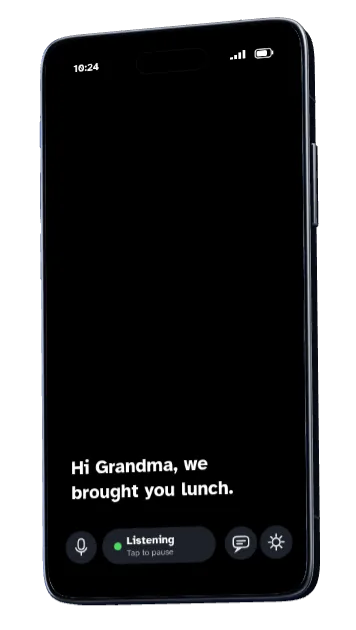
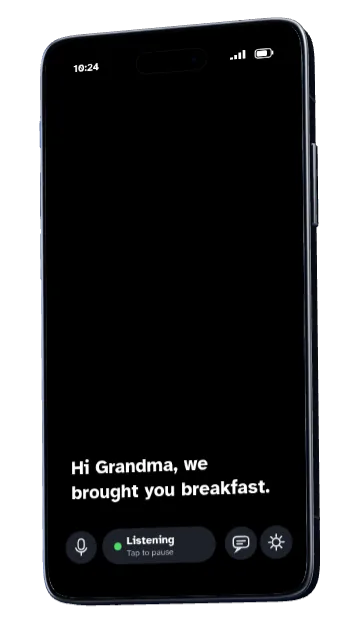
Home and privacy pages: name Apple's servers, backups and the home computer's needs
The home page now says sound can also go to Apple's servers (off until
turned on), that saved conversations are in an iPhone's backup when backup
is on, and that the home computer must run Windows or Linux with an NVIDIA
graphics card (with a link to the Linux steps). The privacy page scopes
"goes online only for" to the phone's own model, in both languages, and the
Hebrew short version no longer reads as if "if you turned it on" applied
to all three routes. Terms say "any other emergency".

The animated phone brings breakfast in both languages (English said lunch).
Its Hebrew labels follow the app's current wording again (Listening, Flip,
Speak, Play and the welcome lines, which the app writes in the plural).
Hebrew home page: the reply and Flip sentences say clearly what is meant,
and the model size is written in MB, as the app writes it. Phone posters
re-rendered.

Changed region(s): [[0.5253, 0.754, 0.7725, 0.7841]]

diff --git a/he/index.html b/he/index.html
@@ -36,10 +36,10 @@
 <link rel="modulepreload" href="../vendor/GLTFLoader.js">
 <link rel="modulepreload" href="../vendor/BufferGeometryUtils.js">
 <link rel="preload" href="../models/poster-he.webp" as="image" media="not all and (min-aspect-ratio: 1/1) and (min-width: 37.5rem)" fetchpriority="high">
-<link rel="preload" href="../models/back-colour.jpg?v=202611052238" as="image" crossorigin>
-<link rel="preload" href="../models/back-rough.png?v=202611052238" as="image" crossorigin>
-<link rel="stylesheet" href="../css/site.css?v=202611052238">
-<script type="module" src="../js/stage.js?v=202611052238"></script>
+<link rel="preload" href="../models/back-colour.jpg?v=202611092103" as="image" crossorigin>
+<link rel="preload" href="../models/back-rough.png?v=202611092103" as="image" crossorigin>
+<link rel="stylesheet" href="../css/site.css?v=202611092103">
+<script type="module" src="../js/stage.js?v=202611092103"></script>
 </head>
 <body>
 <a class="skip-link" href="#main">דילוג לתוכן</a>
@@ -97,7 +97,7 @@
       <div class="chapter-text">
         <h2 id="h-reply">הטלפון מדבר בשבילכם.</h2>
         <p>מקלידים את מה שרוצים לומר, והטלפון מקריא את זה בקול. משפטים שמשתמשים בהם הרבה, כמו "אפשר לחזור על זה?", מוכנים מראש וזמינים בנגיעה אחת.</p>
-        <p>בזמן שהטלפון מדבר הכתוביות מושהות, כדי שלא יתמלל את עצמו.</p>
+        <p>בזמן שהטלפון מדבר, הכתוביות מושהות, כדי שמה שהוא אומר לא יופיע בהן.</p>
       </div>
     </section>
 
@@ -105,7 +105,7 @@
       <div class="chapter-text">
         <h2 id="h-letters">או פשוט מושיטים את הטלפון.</h2>
         <p>אותיות גדולות ממלאות את כל המסך, וכשקשה לתקשר בדיבור, אפשר לתת למי שמולכם לכתוב לכם.</p>
-        <p>הכפתור "להפוך" מסובב את הכיתוב, כדי שאפשר יהיה לקרוא אותו מהצד השני של השולחן.</p>
+        <p>בלחיצה על "היפוך" הכיתוב מתהפך, וכך אפשר לקרוא אותו גם מהצד השני של השולחן.</p>
       </div>
     </section>
 
@@ -121,7 +121,8 @@
       <div class="chapter-text">
         <h2 id="h-private">הקול נשאר בטלפון.</h2>
         <p>אחרי הורדה חד־פעמית, הכתוביות נוצרות בתוך הטלפון עצמו, בלי שום צורך באינטרנט.</p>
-        <p>אין חשבון, אין פרסומות ואין מעקב. אתם מחליטים אם לשמור שיחות בכלל, ושיחות שנשמרו נשארות בטלפון. הקול יוצא מהטלפון רק אם תבחרו בכך: אל המחשב הביתי שלכם או אל שירות תמלול מקוון.</p>
+        <p>אין חשבון, אין פרסומות ואין מעקב. אתם מחליטים אם לשמור שיחות בכלל. שיחות שנשמרו נשארות בטלפון, ובאייפון גם בגיבוי שלו ל־iCloud או למחשב, אם הגיבוי מופעל.</p>
+        <p>הקול יוצא מהטלפון רק אם תבחרו בכך: אל המחשב הביתי שלכם, אל שירות תמלול מקוון או אל השרתים של אפל. שלוש האפשרויות האלה כבויות עד שתפעילו אותן.</p>
         <p class="chapter-link"><a href="privacy.html">לקריאת מדיניות הפרטיות</a></p>
       </div>
     </section>
@@ -129,7 +130,7 @@
     <section class="chapter" id="home-computer" data-scene="home" aria-labelledby="h-home">
       <div class="chapter-text">
         <h2 id="h-home">יש מחשב בבית? הוא יכול לעזור.</h2>
-        <p>אוזן יכולה להריץ על המחשב מודל גדול יותר לזיהוי דיבור, וכך הכתוביות יוצאות לרוב מדויקות יותר.</p>
+        <p>אם זה מחשב Windows או Linux עם כרטיס מסך של NVIDIA, אוזן יכולה להריץ עליו מודל גדול יותר לזיהוי דיבור, וכך הכתוביות יוצאות לרוב מדויקות יותר.</p>
         <p>מספיק לכוון פעם אחת את מצלמת הטלפון אל קוד ה־QR שעל מסך המחשב, וזהו. הקול נשלח רק למחשב שלכם, ורק כשהכתוביות פועלות.</p>
       </div>
     </section>
@@ -140,8 +141,8 @@
         <p>אוזן חינמית. לאייפון ולאייפד מורידים אותה מ־App Store. ב־Google Play היא לא זמינה, ולכן באנדרואיד מתקינים אותה מדף הגרסאות ב־GitHub.</p>
         <ul class="get-list">
           <li><strong>אייפון ואייפד</strong>הורדה בחינם מ־App Store. נדרשת גרסת iOS 17 ומעלה.</li>
-          <li><strong>אנדרואיד</strong>בטלפון עצמו מורידים מדף הגרסאות את הקובץ <bdi>Ozen.apk</bdi> ופותחים אותו. הטלפון ישאל אם לאפשר התקנה מהדפדפן או מאפליקציית הקבצים: מאשרים, ואז מקישים על "התקנה". נדרשים טלפון 64 ביט וגרסת אנדרואיד 8 ומעלה. בהפעלה הראשונה של הכתוביות, אוזן מורידה מודל לזיהוי דיבור בנפח של כ־574 מ״ב, ולכן מומלץ להתחבר ל־Wi-Fi.</li>
-          <li><strong>מחשב ביתי</strong>תוכנת ההתקנה ל־Windows נמצאת גם היא בדף הגרסאות.</li>
+          <li><strong>אנדרואיד</strong>בטלפון עצמו מורידים מדף הגרסאות את הקובץ <bdi>Ozen.apk</bdi> ופותחים אותו. הטלפון ישאל אם לאפשר התקנה מהדפדפן או מאפליקציית הקבצים: מאשרים, ואז מקישים על "התקנה". נדרשים טלפון 64 ביט וגרסת אנדרואיד 8 ומעלה. בהפעלה הראשונה של הכתוביות, אוזן מורידה מודל לזיהוי דיבור בנפח של כ־574 MB, ולכן מומלץ להתחבר ל־Wi-Fi.</li>
+          <li><strong>מחשב ביתי</strong>נדרש מחשב Windows או Linux עם כרטיס מסך של NVIDIA. תוכנת ההתקנה ל־Windows נמצאת גם היא בדף הגרסאות, וההוראות ל־Linux מופיעות <a href="https://github.com/arbelonson-source/ozen/blob/master/docs/home-computer.md#setting-it-up-on-linux" hreflang="en">במדריך למחשב הביתי</a> (באנגלית).</li>
         </ul>
         <div class="actions">
           <a class="btn btn-primary" href="https://apps.apple.com/app/id6821325968">להורדה מ־App Store</a>

diff --git a/js/stage.js b/js/stage.js
@@ -38,7 +38,7 @@ const WIDE = window.matchMedia('(min-aspect-ratio: 1/1) and (min-width: 37.5rem)
 const asset = (path) => new URL(`../${path}`, import.meta.url).href;
 const phoneAbort = new AbortController();
 const phoneBytes = 'WebGL2RenderingContext' in window
-  ? fetch(asset('models/phone.glb?v=202611052238'), { signal: phoneAbort.signal }).then((r) => (r.ok ? r.arrayBuffer() : Promise.reject(new Error(`phone.glb ${r.status}`))))
+  ? fetch(asset('models/phone.glb?v=202611092103'), { signal: phoneAbort.signal }).then((r) => (r.ok ? r.arrayBuffer() : Promise.reject(new Error(`phone.glb ${r.status}`))))
   : Promise.reject(new Error('no WebGL 2'));
 phoneBytes.catch(() => {});
 
@@ -427,23 +427,23 @@ function wrapCentered(text, y, size, colour, weight = 400, family = BODY, maxW =
 // Everything the phone says, in the page's language. The Hebrew is the
 // app's own wording where the app has it (App/Ozen/Views, tr(...)).
 const S = HE ? {
-  listening: 'מקשיב', tapToPause: 'הקישו כדי להשהות',
+  listening: 'מאזינה', tapToPause: 'הקישו כדי להשהות',
   heroHistory: 'היי סבתא, הבאנו לך ארוחת בוקר.',
   hero: ['בוקר טוב! ישנת טוב?', 'בית המרקחת נסגר מוקדם ביום שישי.', 'בואי נלך מחר ב-10.', 'רוצה שאקפיץ אותך לשם?'],
   speakers: [['נועה', 'אתם באים בשבת?'], ['אבא', 'נגיע עד 12.'], ['נועה', 'מעולה! תביאו את העוגה.']],
   nameLine: 'סבתא, רוצה תה?', name: 'סבתא', said: 'נאמר: סבתא',
   houseLines: ['רוצה תה?', 'כן, תודה, עם לימון.'], doorbell: 'פעמון דלת', heardNow: 'נשמע עכשיו',
-  say: 'להגיד', reply: 'אפשר לדבר קצת יותר לאט, בבקשה?', play: 'להשמיע', stop: 'עצירה',
+  say: 'להגיד', reply: 'אפשר לדבר קצת יותר לאט, בבקשה?', play: 'השמעה', stop: 'עצירה',
   quickPhrases: 'משפטים מוכנים', phrases: ['רגע, לא הבנתי', 'אפשר לחזור על זה?', 'לאט יותר בבקשה', 'כן', 'תודה'],
-  letters: 'נתראה מחר ב-10', clear: 'ניקוי', flip: 'להפוך', back: 'חזרה', speak: 'להשמיע', close: 'סגירה',
+  letters: 'נתראה מחר ב-10', clear: 'ניקוי', flip: 'היפוך', back: 'חזרה', speak: 'השמעה', close: 'סגירה',
   noInternet: 'בלי אינטרנט',
   pointCamera: 'מכוונים את המצלמה אל הקוד שעל מסך המחשב', connected: 'מחובר', connectedNote: 'הכתוביות מגיעות מהמחשב בבית.',
-  welcomeTitle: 'אוזן', welcome: ['כתוביות חיות לשיחה.', 'מה שאומרים לידך מופיע על המסך, באותיות גדולות, תוך כדי הדיבור.', 'כברירת מחדל, הכל קורה בתוך הטלפון.'],
+  welcomeTitle: 'אוזן', welcome: ['כתוביות בזמן אמת לכל שיחה.', 'מה שאומרים לידכם מופיע על המסך באותיות גדולות, תוך כדי הדיבור.', 'כברירת מחדל, הכול קורה בתוך הטלפון.'],
   skip: 'דילוג', next: 'הבא',
   pause: 'השהיית האנימציה', resume: 'הפעלת האנימציה',
 } : {
   listening: 'Listening', tapToPause: 'Tap to pause',
-  heroHistory: 'Hi Grandma, we brought you lunch.',
+  heroHistory: 'Hi Grandma, we brought you breakfast.',
   hero: ['Good morning! Did you sleep well?', 'The pharmacy closes early on Friday.', "Let's go tomorrow at 10.", 'Do you want me to drive you there?'],
   speakers: [['Noa', 'Are you coming on Saturday?'], ['Dad', "We'll be there by 12."], ['Noa', 'Great! Bring the cake.']],
   nameLine: 'Grandma, do you want some tea?', name: 'Grandma', said: 'Said: Grandma',
@@ -987,8 +987,8 @@ function canvasScreenMaterial(map) {
 async function loadPhone(screenTexture) {
   const loader = new THREE.TextureLoader();
   const [backColour, backRough, gltf] = await Promise.all([
-    loader.loadAsync(asset('models/back-colour.jpg?v=202611052238')),
-    loader.loadAsync(asset('models/back-rough.png?v=202611052238')),
+    loader.loadAsync(asset('models/back-colour.jpg?v=202611092103')),
+    loader.loadAsync(asset('models/back-rough.png?v=202611092103')),
     phoneBytes.then((bytes) => new GLTFLoader().parseAsync(bytes, '')),
   ]);
   backColour.colorSpace = THREE.SRGBColorSpace;
@@ -1064,7 +1064,7 @@ function studioEnvironment() {
 }
 
 async function loadLaptop(texture) {
-  const gltf = await new GLTFLoader().loadAsync(asset('models/laptop.glb?v=202611052238'));
+  const gltf = await new GLTFLoader().loadAsync(asset('models/laptop.glb?v=202611092103'));
   const Mat = TOUCH ? THREE.MeshStandardMaterial : THREE.MeshPhysicalMaterial;
   const mats = {
     Alu: new Mat({ color: 0xc3c9d2, metalness: 1, roughness: 0.3 }),

diff --git a/index.html b/index.html
@@ -36,10 +36,10 @@
 <link rel="modulepreload" href="vendor/GLTFLoader.js">
 <link rel="modulepreload" href="vendor/BufferGeometryUtils.js">
 <link rel="preload" href="models/poster-en.webp" as="image" media="not all and (min-aspect-ratio: 1/1) and (min-width: 37.5rem)" fetchpriority="high">
-<link rel="preload" href="models/back-colour.jpg?v=202611052238" as="image" crossorigin>
-<link rel="preload" href="models/back-rough.png?v=202611052238" as="image" crossorigin>
-<link rel="stylesheet" href="css/site.css?v=202611052238">
-<script type="module" src="js/stage.js?v=202611052238"></script>
+<link rel="preload" href="models/back-colour.jpg?v=202611092103" as="image" crossorigin>
+<link rel="preload" href="models/back-rough.png?v=202611092103" as="image" crossorigin>
+<link rel="stylesheet" href="css/site.css?v=202611092103">
+<script type="module" src="js/stage.js?v=202611092103"></script>
 </head>
 <body>
 <a class="skip-link" href="#main">Skip to content</a>
@@ -121,7 +121,8 @@
       <div class="chapter-text">
         <h2 id="h-private">The sound stays on your phone.</h2>
         <p>After a one-time download, the captions are written on the phone itself, with no internet at all.</p>
-        <p>No account, no ads, no tracking. Saved conversations stay on your phone, and you choose whether they're saved at all. Sound leaves the phone only if you choose to use your own home computer or an online captioning service.</p>
+        <p>No account, no ads, no tracking. Saved conversations stay on your phone, and in an iPhone's iCloud or computer backup if that's on. You choose whether they're saved at all.</p>
+        <p>Sound leaves the phone only if you choose that: to your own home computer, to an online captioning service, or to Apple's servers. All three stay off until you turn them on.</p>
         <p class="chapter-link"><a href="privacy.html">Read the privacy policy</a></p>
       </div>
     </section>
@@ -129,7 +130,7 @@
     <section class="chapter" id="home-computer" data-scene="home" aria-labelledby="h-home">
       <div class="chapter-text">
         <h2 id="h-home">A computer at home can help.</h2>
-        <p>If the family has a computer, Ozen can use it to run a bigger speech model for captions that are often more accurate.</p>
+        <p>If the family has a Windows or Linux computer with an NVIDIA graphics card, Ozen can use it to run a bigger speech model for captions that are often more accurate.</p>
         <p>Point the phone's camera at the code on the computer once, and it's set up. The sound goes only to your own computer, and only while captions are on.</p>
       </div>
     </section>
@@ -141,7 +142,7 @@
         <ul class="get-list">
           <li><strong>iPhone and iPad</strong>Get it free from the App Store. Needs iOS 17 or newer.</li>
           <li><strong>Android</strong>On the phone, download Ozen.apk from the releases page and open it. Android asks whether to allow installing from the browser or the Files app: allow it, then tap Install. Needs Android 8 or newer, on a 64-bit phone. The first time captions start, Ozen downloads a speech model of about 574 MB, best over Wi-Fi.</li>
-          <li><strong>Home computer</strong>The Windows setup is on the releases page too.</li>
+          <li><strong>Home computer</strong>Needs Windows or Linux and an NVIDIA graphics card. The Windows setup is on the releases page too; for Linux, see the <a href="https://github.com/arbelonson-source/ozen/blob/master/docs/home-computer.md#setting-it-up-on-linux">home computer guide</a>.</li>
         </ul>
         <div class="actions">
           <a class="btn btn-primary" href="https://apps.apple.com/app/id6821325968">Get it on the App Store</a>

diff --git a/he/privacy.html b/he/privacy.html
@@ -26,7 +26,7 @@
 <link rel="icon" href="/icon-192.png" type="image/png" sizes="192x192">
 <link rel="apple-touch-icon" href="/apple-touch-icon.png">
 <link rel="preload" href="../fonts/Rubik-hebrew.woff2" as="font" type="font/woff2" crossorigin>
-<link rel="stylesheet" href="../css/site.css?v=202611052238">
+<link rel="stylesheet" href="../css/site.css?v=202611092103">
 </head>
 <body class="doc-page">
 <a class="skip-link" href="#main">דילוג לתוכן</a>
@@ -53,7 +53,7 @@
     <li>האתר אינו שומר עוגיות, אינו סופר מבקרים ואינו אוסף שום מידע. אין בו טפסים ואין בו חשבונות משתמש.</li>
     <li>האפליקציה פועלת בלי חשבון, בלי ניתוח נתוני שימוש ובלי מעקב, ואינה שולחת דבר למי שפיתח אותה.</li>
     <li>כשהתמלול נעשה במודל שבטלפון, הקול והמילים נשארים בטלפון.</li>
-    <li>הקול יוצא מהטלפון רק אם בחרתם בכך: אל המחשב הביתי שלכם, אל שירות תמלול מקוון שנרשמתם אליו או אל השרתים של אפל, אם הפעלתם את האפשרות הזאת.</li>
+    <li>הקול יוצא מהטלפון רק אם בחרתם בכך: אל המחשב הביתי שלכם, אל שירות תמלול מקוון שנרשמתם אליו, או אל השרתים של אפל אם הפעלתם זאת בהגדרות.</li>
   </ul>
 </div>
 
@@ -74,7 +74,7 @@
 <h2>אפליקציית אוזן</h2>
 <h3>תמלול בתוך הטלפון</h3>
 <p>הדיבור הופך לטקסט בתוך הטלפון עצמו. שום דבר ממה שנאמר לא יוצא מהטלפון, ואין באפליקציה קוד שמנתח את השימוש בה או מדווח עליו.</p>
-<p>האפליקציה מתחברת לאינטרנט רק לצרכים הבאים, ואף פעם לא כדי לשלוח את מה שנאמר:</p>
+<p>כשהתמלול נעשה במודל שבטלפון, האפליקציה מתחברת לאינטרנט רק לצרכים הבאים, ואף פעם לא כדי לשלוח את מה שנאמר:</p>
 <ul>
   <li>הורדה חד־פעמית של מודל לזיהוי דיבור. באייפון, מודלי העברית יורדים מהעמוד של אוזן ב־GitHub, ושאר המודלים יורדים מהאוסף של <bdi>WhisperKit</bdi> ב־<bdi>Hugging Face</bdi>. באנדרואיד, מודלי העברית יורדים מהעמוד של אוזן ב־GitHub, והמודלים לשאר השפות יורדים מהעמוד של <bdi>whisper.cpp</bdi> ב־<bdi>Hugging Face</bdi>. כמו בכל הורדה, האתר שממנו מורידים רואה את כתובת ה־<bdi>IP</bdi> של הטלפון.</li>
   <li>הורדת רשימת המילים של המודל, בפעם הראשונה שהוא נטען.</li>

diff --git a/terms.html b/terms.html
@@ -27,7 +27,7 @@
 <link rel="apple-touch-icon" href="/apple-touch-icon.png">
 <link rel="preload" href="fonts/Rubik-latin.woff2" as="font" type="font/woff2" crossorigin>
 <link rel="preload" href="fonts/AtkinsonHyperlegible-400-latin.woff2" as="font" type="font/woff2" crossorigin>
-<link rel="stylesheet" href="css/site.css?v=202611052238">
+<link rel="stylesheet" href="css/site.css?v=202611092103">
 </head>
 <body class="doc-page">
 <a class="skip-link" href="#main">Skip to content</a>
@@ -60,7 +60,7 @@
     <h3>Captions can be wrong</h3>
     <p>Speech recognition makes mistakes, especially with background noise, accents, several people talking at once, names, numbers, and medical, legal or technical words. Don't rely on Ozen when a missed or wrong word could cause harm. If it matters, ask the person to repeat it or write it down.</p>
     <h3>Not a certified alarm</h3>
-    <p>Ozen's alerts for your name, a doorbell, a smoke alarm or a siren can be late, can be missed, and can be wrong. They depend on what the phone's microphone can hear, and on its settings, battery and volume. <strong>Never use Ozen as your only way to know about a fire, smoke, gas, a siren or any emergency.</strong></p>
+    <p>Ozen's alerts for your name, a doorbell, a smoke alarm or a siren can be late, can be missed, and can be wrong. They depend on what the phone's microphone can hear, and on its settings, battery and volume. <strong>Never use Ozen as your only way to know about a fire, smoke, gas, a siren or any other emergency.</strong></p>
     <h3>Keep the official alerts on</h3>
     <ul>
       <li>In Israel, install the official Home Front Command app, turn on its alert option for people who are deaf or hard of hearing, and keep the phone's emergency alerts turned on. Official site: <a href="https://www.oref.org.il/">oref.org.il</a>.</li>

diff --git a/privacy.html b/privacy.html
@@ -27,7 +27,7 @@
 <link rel="apple-touch-icon" href="/apple-touch-icon.png">
 <link rel="preload" href="fonts/Rubik-latin.woff2" as="font" type="font/woff2" crossorigin>
 <link rel="preload" href="fonts/AtkinsonHyperlegible-400-latin.woff2" as="font" type="font/woff2" crossorigin>
-<link rel="stylesheet" href="css/site.css?v=202611052238">
+<link rel="stylesheet" href="css/site.css?v=202611092103">
 </head>
 <body class="doc-page">
 <a class="skip-link" href="#main">Skip to content</a>
@@ -75,7 +75,7 @@
 <h2>The Ozen app</h2>
 <h3>With the phone's own speech model</h3>
 <p>The sound is turned into words on the phone itself. Nothing you say leaves the phone, and the app has no analytics or usage-reporting code.</p>
-<p>The app goes online only for things that aren't your words:</p>
+<p>With the phone's own model, the app goes online only for things that aren't your words:</p>
 <ul>
   <li>To download a speech model, once. On iPhone the Hebrew models come from Ozen's page on GitHub and the other models from WhisperKit's model collection on Hugging Face. On Android the Hebrew models come from Ozen's page on GitHub and the other languages from whisper.cpp's page on Hugging Face. Like any download, that site can see the phone's internet address.</li>
   <li>To fetch the model's word list the first time the model loads.</li>

diff --git a/404.html b/404.html
@@ -15,7 +15,7 @@
 <link rel="apple-touch-icon" href="/apple-touch-icon.png">
 <link rel="preload" href="/fonts/Rubik-latin.woff2" as="font" type="font/woff2" crossorigin>
 <link rel="preload" href="/fonts/AtkinsonHyperlegible-400-latin.woff2" as="font" type="font/woff2" crossorigin>
-<link rel="stylesheet" href="/css/site.css?v=202611052238">
+<link rel="stylesheet" href="/css/site.css?v=202611092103">
 </head>
 <body class="doc-page">
 <a class="skip-link" href="#main">Skip to content</a>

diff --git a/accessibility.html b/accessibility.html
@@ -27,7 +27,7 @@
 <link rel="apple-touch-icon" href="/apple-touch-icon.png">
 <link rel="preload" href="fonts/Rubik-latin.woff2" as="font" type="font/woff2" crossorigin>
 <link rel="preload" href="fonts/AtkinsonHyperlegible-400-latin.woff2" as="font" type="font/woff2" crossorigin>
-<link rel="stylesheet" href="css/site.css?v=202611052238">
+<link rel="stylesheet" href="css/site.css?v=202611092103">
 </head>
 <body class="doc-page">
 <a class="skip-link" href="#main">Skip to content</a>

diff --git a/cookies.html b/cookies.html
@@ -27,7 +27,7 @@
 <link rel="apple-touch-icon" href="/apple-touch-icon.png">
 <link rel="preload" href="fonts/Rubik-latin.woff2" as="font" type="font/woff2" crossorigin>
 <link rel="preload" href="fonts/AtkinsonHyperlegible-400-latin.woff2" as="font" type="font/woff2" crossorigin>
-<link rel="stylesheet" href="css/site.css?v=202611052238">
+<link rel="stylesheet" href="css/site.css?v=202611092103">
 </head>
 <body class="doc-page">
 <a class="skip-link" href="#main">Skip to content</a>

diff --git a/licenses.html b/licenses.html
@@ -27,7 +27,7 @@
 <link rel="apple-touch-icon" href="/apple-touch-icon.png">
 <link rel="preload" href="fonts/Rubik-latin.woff2" as="font" type="font/woff2" crossorigin>
 <link rel="preload" href="fonts/AtkinsonHyperlegible-400-latin.woff2" as="font" type="font/woff2" crossorigin>
-<link rel="stylesheet" href="css/site.css?v=202611052238">
+<link rel="stylesheet" href="css/site.css?v=202611092103">
 </head>
 <body class="doc-page">
 <a class="skip-link" href="#main">Skip to content</a>

diff --git a/he/accessibility.html b/he/accessibility.html
@@ -26,7 +26,7 @@
 <link rel="icon" href="/icon-192.png" type="image/png" sizes="192x192">
 <link rel="apple-touch-icon" href="/apple-touch-icon.png">
 <link rel="preload" href="../fonts/Rubik-hebrew.woff2" as="font" type="font/woff2" crossorigin>
-<link rel="stylesheet" href="../css/site.css?v=202611052238">
+<link rel="stylesheet" href="../css/site.css?v=202611092103">
 </head>
 <body class="doc-page">
 <a class="skip-link" href="#main">דילוג לתוכן</a>

diff --git a/he/cookies.html b/he/cookies.html
@@ -26,7 +26,7 @@
 <link rel="icon" href="/icon-192.png" type="image/png" sizes="192x192">
 <link rel="apple-touch-icon" href="/apple-touch-icon.png">
 <link rel="preload" href="../fonts/Rubik-hebrew.woff2" as="font" type="font/woff2" crossorigin>
-<link rel="stylesheet" href="../css/site.css?v=202611052238">
+<link rel="stylesheet" href="../css/site.css?v=202611092103">
 </head>
 <body class="doc-page">
 <a class="skip-link" href="#main">דילוג לתוכן</a>
